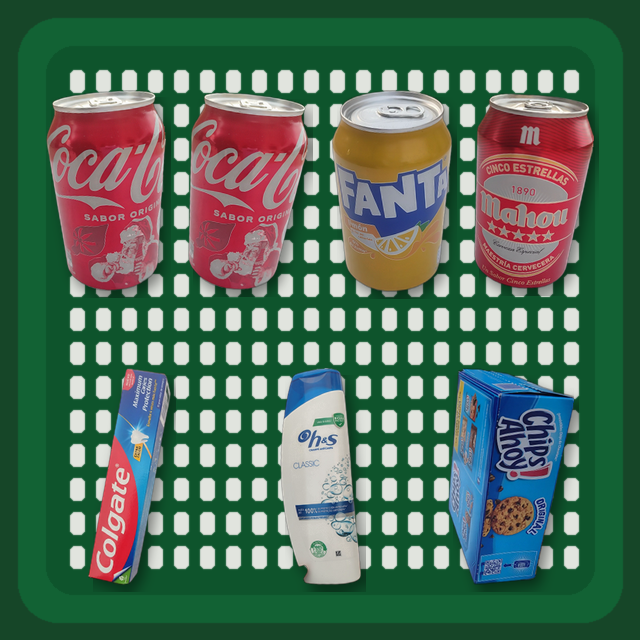
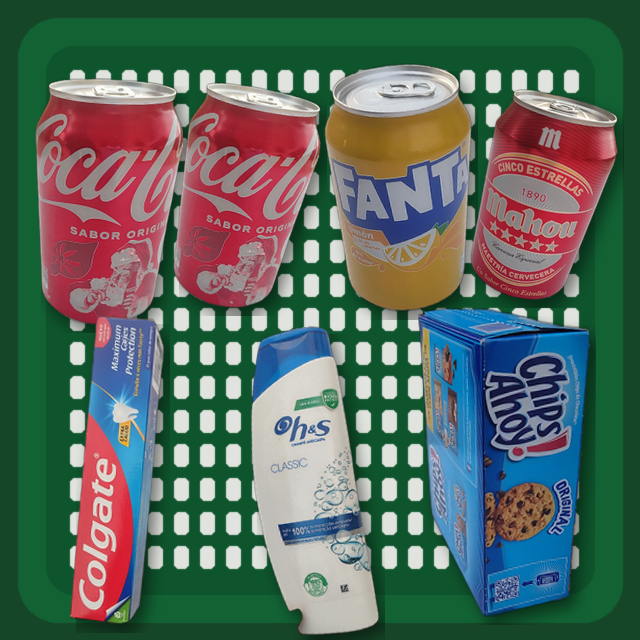
Pile the products in the station frames, as they lie in a real cart
The tidy grid looked unreal: in a real trolley products lie on top of
each other. Products are now larger than their cell, rows overlap, and
each is shifted and turned at random, later rows lying on the earlier
ones. A pile is kept only if every product stays at least 60% visible
and the page, once rendered, draws every name pill clear of the others;
otherwise the next random pile is tried.

Claude-Session: https://claude.ai/code/session_01UuVYbn9LtwBCN8P71mXPJ4

diff --git a/presentation/sora/make_station_screens.py b/presentation/sora/make_station_screens.py
@@ -10,9 +10,13 @@ the browser, so the template and the demo assets are not touched.
     python3 presentation/sora/make_station_screens.py
 
 Writes frame_<station>.png and screen_<station>.png next to this file.
-Change BASKET / TROLLEY (rows of products) to change what is in the cart.
+Change BASKET / TROLLEY (rows of products) to change what is in the cart, and
+SPREAD to make the pile tidier or messier. Products overlap as they do in a
+real cart, but each stays at least MIN_VISIBLE in view, and a pile is only kept
+when the page draws every name pill clear of the others.
 """
 import glob
+import io
 import json
 import os
 import random
@@ -54,49 +58,97 @@ def trolley_bg():
     d.rectangle([0, 0, S - 1, S - 1], outline=(200, 204, 210), width=10)
     return im.filter(ImageFilter.GaussianBlur(0.5))
 
-MARGIN = 34      # keep products off the frame edge
-LABEL = 28       # room above each box for the name pill the page draws
-FILL = .84       # share of its cell a product may take, so neighbours never touch
+MARGIN = 30
+LABEL = 28          # room above the top row for the name pills the page draws
+MIN_VISIBLE = .60   # every product must stay at least this much in view
+# The label the page draws for each tag (shortOf() in the template), used to
+# keep the name pills from colliding.
+SHORT = {"cocacola_33cl": "CocaCola", "fanta_33cl": "Fanta", "chipsahoy_300g": "Chips Ahoy!",
+         "colacao_383g": "ColaCao", "aguila_33cl": "Águila", "estrellag_33cl": "Estrella",
+         "mahou5_33cl": "Mahou", "mahou00_33cl": "Mahou", "smacks_330g": "Smacks",
+         "tostarica_570g": "Tostarica", "axedrak_150ml": "Axe", "colgate_75ml": "Colgate",
+         "hysori_300ml": "H&S"}
 
 
-def place(bg, rows, seed):
-    """Lay products out in rows, one cell each, and derive their exact boxes.
+def _label_rect(tag, l, t, r):
+    """Where the page's name pill lands, in frame pixels (measured on renders)."""
+    w = max(70, 12 * len(SHORT.get(tag, tag)) + 34)
+    cx = (l + r) / 2
+    return (cx - w / 2, t - 28, cx + w / 2, t + 20)
 
-    Each product is scaled to fit inside its own cell, below a strip kept free
-    for its label, so no two products or labels overlap; that is checked."""
-    random.seed(seed)
-    preds, boxes = [], []
-    row_h = (S - 2 * MARGIN) / len(rows)
+
+def _hit(a, b):
+    return a[0] < b[2] and b[0] < a[2] and a[1] < b[3] and b[1] < a[3]
+
+
+def _try_layout(rows, spread, rng):
+    """One random pile: rows that overlap each other, products a little larger
+    than their cell, jittered and rotated. Later rows are pasted on top."""
+    row_h = (S - 2 * MARGIN - LABEL) / len(rows)
+    placed = []
     for ri, row in enumerate(rows):
         cell_w = (S - 2 * MARGIN) / len(row)
         for ci, (tag, ang) in enumerate(row):
+            ang += rng.uniform(-spread["rot"], spread["rot"])
             p = Image.open(PROD % tag).convert("RGBA").rotate(ang, expand=True, resample=Image.BICUBIC)
             p = p.crop(p.getchannel("A").point(lambda a: 255 if a > 40 else 0).getbbox())
-            k = min(cell_w * FILL / p.width, (row_h - LABEL) * FILL / p.height)
+            k = min(cell_w * spread["fill"] / p.width, row_h * spread["fill_h"] / p.height)
             p = p.resize((round(p.width * k), round(p.height * k)), Image.LANCZOS)
-            cx = MARGIN + cell_w * (ci + .5)
-            cy = MARGIN + row_h * ri + LABEL + (row_h - LABEL) / 2
-            x, y = round(cx - p.width / 2), round(cy - p.height / 2)
-            sh = Image.new("RGBA", p.size, (0, 0, 0, 0))   # soft shadow
-            sh.putalpha(p.getchannel("A").point(lambda a: int(a * .45)))
-            sh = sh.filter(ImageFilter.GaussianBlur(6))
-            bg.paste(sh, (x + 5, y + 7), sh)
-            bg.paste(p, (x, y), p)
-            l, t, r, b = x, y, x + p.width, y + p.height
-            boxes.append((tag, l, t - LABEL, r, b))
-            preds.append({"probability": round(random.uniform(.93, .99), 2), "tagName": tag,
-                          "boundingBox": {"left": round(l / S, 4), "top": round(t / S, 4),
-                                          "width": round(r / S, 4), "height": round(b / S, 4)}})
-    for i, a in enumerate(boxes):              # boxes plus label strips must not intersect
-        for c in boxes[i + 1:]:
-            if a[1] < c[3] and c[1] < a[3] and a[2] < c[4] and c[2] < a[4]:
-                raise SystemExit("overlap between %s and %s" % (a[0], c[0]))
+            cx = MARGIN + cell_w * (ci + .5) + rng.uniform(-spread["jit"], spread["jit"])
+            cy = MARGIN + LABEL + row_h * (ri + .5) + rng.uniform(-spread["jit"], spread["jit"])
+            x = min(max(round(cx - p.width / 2), 4), S - 4 - p.width)
+            y = min(max(round(cy - p.height / 2), LABEL), S - 4 - p.height)
+            placed.append((tag, p, x, y))
+    # visibility: who owns each pixel once everything is pasted in order
+    owner = Image.new("L", (S, S), 0)
+    for i, (tag, p, x, y) in enumerate(placed):
+        owner.paste(i + 1, (x, y), p.getchannel("A").point(lambda a: 255 if a > 40 else 0))
+    hist = owner.histogram()
+    for i, (tag, p, x, y) in enumerate(placed):
+        area = p.getchannel("A").point(lambda a: 255 if a > 40 else 0).histogram()[255]
+        if hist[i + 1] < MIN_VISIBLE * area:
+            return None
+    labels = [_label_rect(tag, x, y, x + p.width) for tag, p, x, y in placed]
+    for i, a in enumerate(labels):
+        if any(_hit(a, b) for b in labels[i + 1:]):
+            return None
+    return placed
+
+
+def place(bg, rows, seed, spread):
+    """Pile products the way they lie in a real cart: overlapping, but each one
+    recognisable and each name pill readable. Retries random piles until one
+    passes both checks, and derives the exact box of every product."""
+    rng = random.Random(seed)
+    for _ in range(4000):
+        placed = _try_layout(rows, spread, rng)
+        if placed:
+            break
+    else:
+        raise SystemExit("no layout keeps every product %d%% visible with readable labels; "
+                         "lower the spread" % (MIN_VISIBLE * 100))
+    preds = []
+    for tag, p, x, y in placed:
+        sh = Image.new("RGBA", p.size, (0, 0, 0, 0))   # soft shadow on what lies below
+        sh.putalpha(p.getchannel("A").point(lambda a: int(a * .5)))
+        sh = sh.filter(ImageFilter.GaussianBlur(7))
+        bg.paste(sh, (x + 6, y + 8), sh)
+        bg.paste(p, (x, y), p)
+        preds.append({"probability": round(rng.uniform(.93, .99), 2), "tagName": tag,
+                      "boundingBox": {"left": round(x / S, 4), "top": round(y / S, 4),
+                                      "width": round((x + p.width) / S, 4),
+                                      "height": round((y + p.height) / S, 4)}})
     tags = sorted({p["tagName"] for p in preds})
     for p in preds:
         p["tagInt"] = tags.index(p["tagName"]) + 1
     return bg, preds
 
-BASKET = [  # rows of (tag, rotation in degrees)
+# How messy each cart is: fill > 1 makes neighbours overlap, fill_h > 1 makes a
+# row lie over the one before it; jit and rot are random shift (px) and turn (deg).
+SPREAD = {"basket": {"fill": 1.02, "fill_h": 1.12, "jit": 10, "rot": 10},
+          "trolley": {"fill": 1.18, "fill_h": 1.30, "jit": 14, "rot": 14}}
+
+BASKET = [  # rows of (tag, base rotation in degrees), bottom layer first
     [("cocacola_33cl", 6), ("cocacola_33cl", -5), ("fanta_33cl", 4), ("mahou5_33cl", -6)],
     [("colgate_75ml", -8), ("hysori_300ml", 5), ("chipsahoy_300g", -4)],
 ]
@@ -121,7 +173,48 @@ def _serve_labels(labels):
     return handler
 
 
-def render(stations):
+# The page's name pills, as drawn: any two that intersect make the render fail.
+PILL_CLASH_JS = """() => {
+  const r=[...document.querySelectorAll('#boxes .box b, .cam .box b')].map(b=>b.getBoundingClientRect());
+  const out=[];
+  for(let i=0;i<r.length;i++) for(let j=i+1;j<r.length;j++){
+    const a=r[i],c=r[j];
+    if(a.left<c.right-1&&c.left<a.right-1&&a.top<c.bottom-1&&c.top<a.bottom-1) out.push([i,j]);
+  }
+  return {pills:r.length, clashes:out};
+}"""
+
+
+def shoot(browser, name, density, frame, labels):
+    """Render one station screen; return the number of colliding name pills."""
+    pg = browser.new_page(viewport={"width": 1500, "height": 900}, device_scale_factor=2)
+    pg.route("**/static/assets/demo/ziacarry_eval_img_1.png", _serve_frame(frame))
+    pg.route("**/upload", _serve_labels(labels))
+    pg.goto(BASE, wait_until="networkidle")
+    pg.select_option("#lang", "en")
+    pg.click("#big")
+    pg.select_option("#demo", "demo1")
+    pg.wait_for_timeout(300)
+    pg.wait_for_function("window.iaCarry.state.detect.status==='ok'", timeout=30000)
+    pg.click('#seg button[data-d="%s"]' % density)
+    pg.wait_for_timeout(600)
+    check = pg.evaluate(PILL_CLASH_JS)
+    if check["pills"] != len(labels["predictions"]):
+        raise SystemExit("%s: %d name pills drawn for %d products" % (name, check["pills"], len(labels["predictions"])))
+    if not check["clashes"]:
+        # Render only: call the source the live camera, and show the station
+        # label in English (it is hardcoded Spanish in the page).
+        pg.evaluate("""() => {
+            const o=document.querySelector('#demo option:checked'); if(o) o.textContent='Live camera';
+            document.querySelectorAll('.muted').forEach(e=>{
+                if(e.textContent.includes('Estación')) e.textContent='Station 04 · Barakaldo'; }); }""")
+        pg.locator(".app").screenshot(path=os.path.join(HERE, "screen_%s.png" % name))
+        print("screen_%s.png  total %s  %s" % (name, pg.inner_text("#total"), pg.inner_text("#badgeCount")))
+    pg.close()
+    return len(check["clashes"])
+
+
+def main():
     stub = subprocess.Popen([sys.executable, os.path.join(SERVING, "verify", "stub_server.py"), SERVING],
                             env=dict(os.environ, PORT=str(PORT)),
                             stdout=subprocess.DEVNULL, stderr=subprocess.DEVNULL)
@@ -136,42 +229,22 @@ def render(stations):
             iter(glob.glob("/opt/pw-browsers/chromium-*/chrome-linux/chrome")), None)
         with sync_playwright() as p:
             b = p.chromium.launch(executable_path=exe) if exe else p.chromium.launch()
-            for name, density, frame, labels in stations:
-                pg = b.new_page(viewport={"width": 1500, "height": 900}, device_scale_factor=2)
-                pg.route("**/static/assets/demo/ziacarry_eval_img_1.png", _serve_frame(frame))
-                pg.route("**/upload", _serve_labels(labels))
-                pg.goto(BASE, wait_until="networkidle")
-                pg.select_option("#lang", "en")
-                pg.click("#big")
-                pg.select_option("#demo", "demo1")
-                pg.wait_for_timeout(300)
-                pg.wait_for_function("window.iaCarry.state.detect.status==='ok'", timeout=30000)
-                pg.click('#seg button[data-d="%s"]' % density)
-                pg.wait_for_timeout(800)
-                # Render only: call the source the live camera, and show the
-                # station label in English (it is hardcoded Spanish in the page).
-                pg.evaluate("""() => {
-                    const o=document.querySelector('#demo option:checked'); if(o) o.textContent='Live camera';
-                    document.querySelectorAll('.muted').forEach(e=>{
-                        if(e.textContent.includes('Estación')) e.textContent='Station 04 · Barakaldo'; }); }""")
-                pg.locator(".app").screenshot(path=os.path.join(HERE, "screen_%s.png" % name))
-                print("screen_%s.png  total %s  %s" % (name, pg.inner_text("#total"), pg.inner_text("#badgeCount")))
-                pg.close()
+            for name, bgf, items, density in [("basket", basket_bg, BASKET, "comfort"),
+                                              ("trolley", trolley_bg, TROLLEY, "cols3")]:
+                # Try piles until the page draws every name pill clear of the others.
+                for seed in range(1, 41):
+                    im, preds = place(bgf(), items, seed, SPREAD[name])
+                    buf = io.BytesIO()
+                    im.save(buf, "PNG", optimize=True)
+                    labels = {"path_server": "presentation/sora", "shape_img": [S, S, 3], "predictions": preds}
+                    if shoot(b, name, density, buf.getvalue(), labels) == 0:
+                        im.save(os.path.join(HERE, "frame_%s.png" % name), optimize=True)
+                        break
+                else:
+                    raise SystemExit("%s: no pile without colliding labels; lower SPREAD" % name)
             b.close()
     finally:
         stub.kill()
-
-
-def main():
-    stations = []
-    for name, bgf, items, seed, density in [("basket", basket_bg, BASKET, 1, "comfort"),
-                                             ("trolley", trolley_bg, TROLLEY, 2, "cols3")]:
-        im, preds = place(bgf(), items, seed)
-        path = os.path.join(HERE, "frame_%s.png" % name)
-        im.save(path, optimize=True)
-        labels = {"path_server": "presentation/sora", "shape_img": [S, S, 3], "predictions": preds}
-        stations.append((name, density, open(path, "rb").read(), labels))
-    render(stations)
 
 
 if __name__ == "__main__":

diff --git a/presentation/sora/prompts.md b/presentation/sora/prompts.md
@@ -7,7 +7,7 @@ station for small purchases and the **trolley** station for large ones.
 |---|---|
 | `draft_v1_basket.webp`, `draft_v1_trolley.webp` | First Sora results, reviewed below |
 | `screen_basket.png`, `screen_trolley.png` | The real checkout screen, large text, showing exactly the products in each draft. Upload it with the prompt, or paste it onto the screen afterwards |
-| `frame_basket.png`, `frame_trolley.png` | The schematic top-down "camera" photo shown inside each screen |
+| `frame_basket.png`, `frame_trolley.png` | The top-down "camera" photo shown inside each screen, composed from the catalogue images and piled with some overlap, as in a real cart |
 | `make_station_screens.py` | Regenerates the frames and screens (`python3 presentation/sora/make_station_screens.py`) |
 | `../images/logo_iacarry_full.png` | The logo to upload with each prompt |
 
